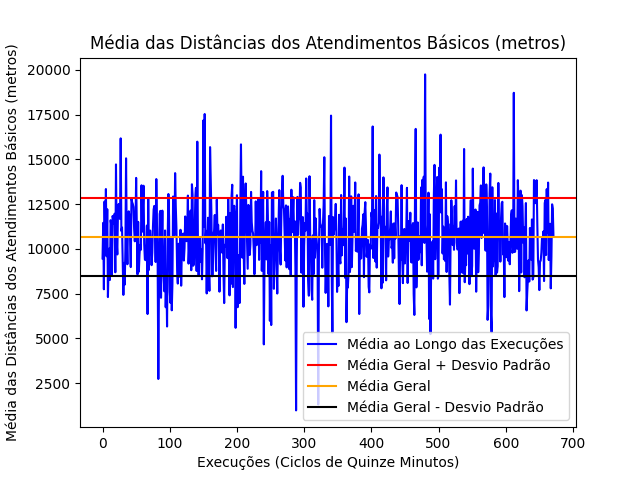
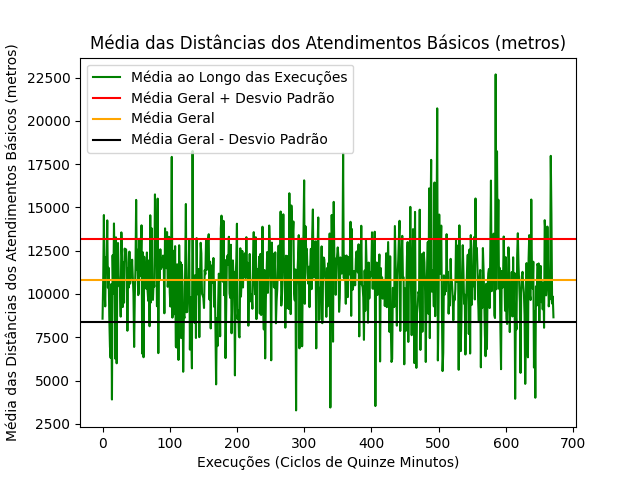
Número de Ambulâncias Básicas e Avançadas

diff --git a/day-time-execution/designacao.py b/day-time-execution/designacao.py
@@ -26,8 +26,7 @@ TEMPO_ENTRE_SIMULACOES = 15
 # 1. Quantas vezes um atendimento básico / urgente deixou de ser atendidom - done
 # 2. Qual é a média de tempo que um chamado urgente leva para ser atendido? - done
 # 3. Qual o número médio de USB/USA's disponíveis por passo de tempo? - done
-
-# 4. Qual a média da distância que uma unidade está de um chamado atribuído?
+# 4. Qual a média da distância que uma unidade está de um chamado atribuído? - done
 
 # Experimentos
 # variar a quantidade de ambulâncias e velocidade
@@ -232,8 +231,8 @@ for _ in tqdm(range(0, CICLOS_DA_SIMULACAO)):
     media = media / (q or 1)   
     mediaDeTempoDeEsperaDeAtendimentosBasicos.append(media)
     
-    mediaDeDistanciaDosAtendimentosBasicos.append(mean(distanciasBasicasParciais))
-    mediaDeDistanciaDosAtendimentosAvancados.append(mean(distanciasAvancadasParciais))
+    mediaDeDistanciaDosAtendimentosBasicos.append(mean(distanciasBasicasParciais or [0]))
+    mediaDeDistanciaDosAtendimentosAvancados.append(mean(distanciasAvancadasParciais or [0]))
     
 fig1, ax = plt.subplots()
 fig2, ax2 = plt.subplots()
@@ -258,7 +257,7 @@ ax.set_ylabel("Tempo em Minutos")
 ax.set_xlabel("Execuções (Ciclos de Cinco Minutos)")
 ax.legend(["Média ao Longo das Execuções", "Média Geral + Desvio Padrão", "Média Geral", "Média Geral - Desvio Padrão"])
 
-fig1.savefig(f"Espera_Media_Basica_{Environment.SPEED}_{Environment.BASICAS}")
+fig1.savefig(f"Espera_Media_Avancadas_{Environment.SPEED}_{Environment.AVANCADAS}")
 
 mediaBasica = mean(mediaDeTempoDeEsperaDeAtendimentosBasicos)
 desvioPadroaBasico = stdev(mediaDeTempoDeEsperaDeAtendimentosBasicos)
@@ -271,7 +270,7 @@ ax2.set_ylabel("Tempo em Minutos")
 ax2.set_xlabel("Execuções (Ciclos de Cinco Minutos)")
 ax2.legend(["Média ao Longo das Execuções", "Média Geral + Desvio Padrão", "Média Geral", "Média Geral - Desvio Padrão"])
 
-fig2.savefig(f"Espera_Media_Avancada_{Environment.SPEED}_{Environment.BASICAS}")
+fig2.savefig(f"Espera_Media_Basicas_{Environment.SPEED}_{Environment.BASICAS}")
 
 mediaBasica = mean(numero_de_atendimentos_basicos_nao_comtemplados)
 desvioPadroaBasico = stdev(numero_de_atendimentos_basicos_nao_comtemplados)
@@ -297,11 +296,11 @@ ax4.set_ylabel("Número de Atendimentos Avançados Não Realizados")
 ax4.set_xlabel("Execuções (Ciclos de Quinze Minutos)")
 ax4.legend(["Média ao Longo das Execuções", "Média Geral + Desvio Padrão", "Média Geral", "Média Geral - Desvio Padrão"])
 
-fig4.savefig(f"Numero_De_Atendimentos_Avancados_Nao_Realizados_{Environment.SPEED}_{Environment.BASICAS}")
+fig4.savefig(f"Numero_De_Atendimentos_Avancados_Nao_Realizados_{Environment.SPEED}_{Environment.AVANCADAS}")
 
 mediaBasica = mean(mediaDeDistanciaDosAtendimentosBasicos)
 desvioPadroaBasico = stdev(mediaDeDistanciaDosAtendimentosBasicos)
-ax5.plot(range(0, simulacao), mediaDeDistanciaDosAtendimentosBasicos, color="blue")
+ax5.plot(range(0, simulacao), mediaDeDistanciaDosAtendimentosBasicos, color="green")
 ax5.axhline(y=(mediaBasica + desvioPadroaBasico), xmin= 0, xmax=simulacao, color="red")
 ax5.axhline(y=(mediaBasica), xmin= 0, xmax=simulacao, color="orange")
 ax5.axhline(y=(mediaBasica - desvioPadroaBasico), xmin= 0, xmax=simulacao, color="black")
@@ -323,6 +322,32 @@ ax6.set_ylabel("Média das Distâncias dos Atendimentos Avançados (metros)")
 ax6.set_xlabel("Execuções (Ciclos de Quinze Minutos)")
 ax6.legend(["Média ao Longo das Execuções", "Média Geral + Desvio Padrão", "Média Geral", "Média Geral - Desvio Padrão"])
 
-fig6.savefig(f"Media_De_Distancias_Dos_Atendimentos_Avancados_{Environment.SPEED}_{Environment.BASICAS}")
+fig6.savefig(f"Media_De_Distancias_Dos_Atendimentos_Avancados_{Environment.SPEED}_{Environment.AVANCADAS}")
+
+mediaBasica = mean(ambulancias_avancadas_disponiveis_por_simulacao)
+desvioPadroaBasico = stdev(ambulancias_avancadas_disponiveis_por_simulacao)
+ax7.plot(range(0, simulacao), ambulancias_avancadas_disponiveis_por_simulacao, color="blue")
+ax7.axhline(y=(mediaBasica + desvioPadroaBasico), xmin= 0, xmax=simulacao, color="red")
+ax7.axhline(y=(mediaBasica), xmin= 0, xmax=simulacao, color="orange")
+ax7.axhline(y=(mediaBasica - desvioPadroaBasico), xmin= 0, xmax=simulacao, color="black")
+ax7.set_title("Número de Ambulâncias Avançadas Disponíveis")
+ax7.set_ylabel("Número de Ambulâncias Avançadas Disponíveis")
+ax7.set_xlabel("Execuções (Ciclos de Quinze Minutos)")
+ax7.legend(["Média ao Longo das Execuções", "Média Geral + Desvio Padrão", "Média Geral", "Média Geral - Desvio Padrão"])
+
+fig7.savefig(f"Numero_De_Ambulancias_Avancadas_{Environment.SPEED}_{Environment.AVANCADAS}")
+
+mediaBasica = mean(ambulancias_basicas_disponiveis_por_simulacao)
+desvioPadroaBasico = stdev(ambulancias_basicas_disponiveis_por_simulacao)
+ax8.plot(range(0, simulacao), ambulancias_basicas_disponiveis_por_simulacao, color="green")
+ax8.axhline(y=(mediaBasica + desvioPadroaBasico), xmin= 0, xmax=simulacao, color="red")
+ax8.axhline(y=(mediaBasica), xmin= 0, xmax=simulacao, color="orange")
+ax8.axhline(y=(mediaBasica - desvioPadroaBasico), xmin= 0, xmax=simulacao, color="black")
+ax8.set_title("Número de Ambulâncias Básicas Disponíveis")
+ax8.set_ylabel("Número de Ambulâncias Básicas Disponíveis")
+ax8.set_xlabel("Execuções (Ciclos de Quinze Minutos)")
+ax8.legend(["Média ao Longo das Execuções", "Média Geral + Desvio Padrão", "Média Geral", "Média Geral - Desvio Padrão"])
+
+fig8.savefig(f"Numero_De_Ambulancias_Basicas_{Environment.SPEED}_{Environment.BASICAS}")
 
 plt.show()
